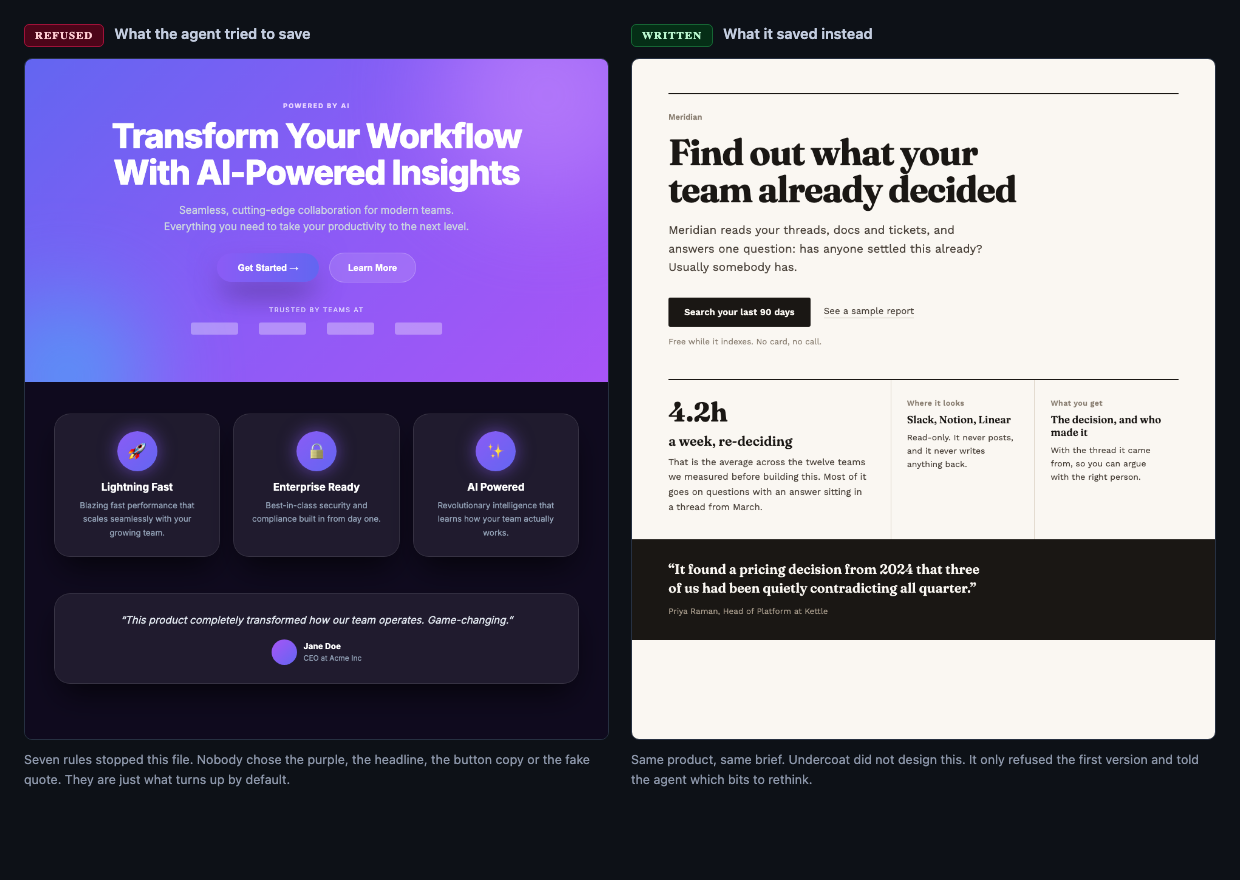
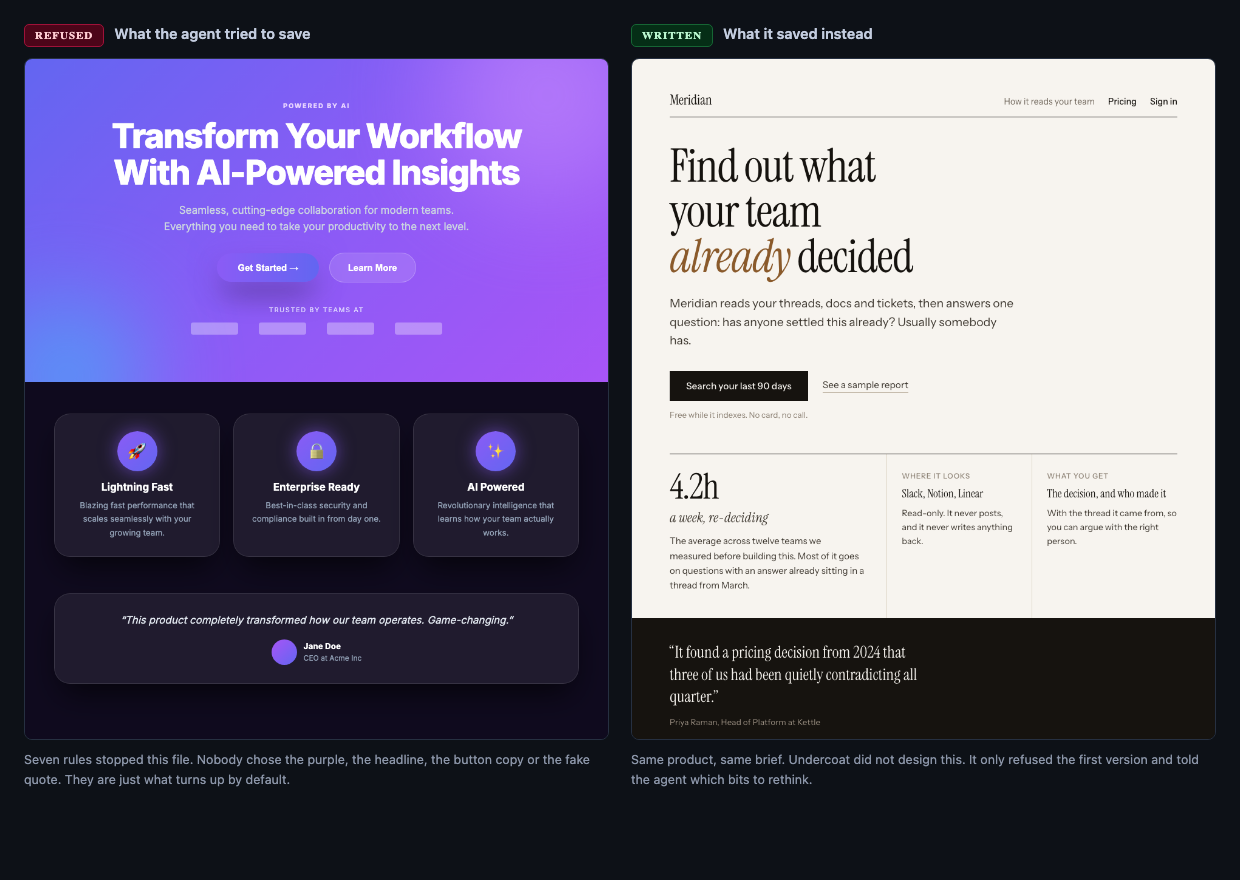
Anchor the callouts to real elements, retypeset the good page, plainer copy
The callout pins were hand-positioned and drifted off their targets. They now
outline the actual elements, so a box cannot point at the wrong thing.

The 'written instead' page was set in Fraunces and Work Sans, which was a safe
pick rather than a good one. Instrument Serif and Instrument Sans, with the
italic pulled out in a warm brown.

Replaced 'this one sits on the save' and a few other phrases that meant
nothing to anyone who had not already read the code.

Changed region(s): [[0.4903, 0.3375, 0.9806, 0.8591], [0.521, 0.092, 0.8274, 0.3068], [0.7968, 0.092, 0.95, 0.1227]]

diff --git a/README.md b/README.md
@@ -12,8 +12,8 @@ otherwise, because it's the average of every landing page it ever read.
 
 You can tell it not to. That works for about forty files, and then it forgets.
 
-Undercoat doesn't ask. It reads the file while the agent is saving it, and if that stuff is
-in there, the save fails.
+Undercoat doesn't ask. It reads each file as the agent goes to save it, and if that stuff is
+in there, the save just fails.
 
 ![Undercoat refusing a write, the agent retrying, and the second attempt going through](assets/refusal.gif)
 
@@ -207,15 +207,15 @@ says something and gets out of your way.
 
 ### Why some refuse and some don't
 
-A rule only gets to refuse a file if two things hold. What it looks for has to mean one
-thing and nothing else, and almost nobody should ever want it deliberately.
+A rule only gets to refuse a file if two things are true. What it looks for has to mean one
+thing and nothing else, and almost nobody should ever want it on purpose.
 
-A hot-linked Unsplash photo in shipped code fails both tests badly enough to refuse. Three
-cards in a row is a genuine tell, but plenty of good pages have three cards in a row, so
-that one just says something and moves on.
+Take a hot-linked Unsplash photo in shipped code. It means one thing, and almost nobody
+wants it, so that one refuses. Three cards in a row is a genuine tell, but plenty of good
+pages have three cards in a row, so that one just says something and moves on.
 
-Notice what this isn't measuring. It doesn't matter how many people agree a pattern is
-ugly. The only question is whether stopping you would ever be the wrong call.
+How many people agree a pattern is ugly doesn't come into it. The only question is whether
+stopping you would ever be the wrong call.
 
 ## When a rule gets it wrong
 
@@ -243,8 +243,8 @@ It reads text, and that's all it reads. So:
 - **It can't tell writing about a pattern from using one.** A style guide that mentions
   `from-purple-600` gets pulled up for it, so turn Undercoat off in those repos.
 
-If you want something that looks at the rendered page and tells you it's boring, you want a
-design reviewer. Undercoat is meant to sit alongside one.
+If you want something that looks at the finished page and tells you it's boring, you want a
+design reviewer. Undercoat is built to work alongside one, not replace it.
 
 ## Does it get in the way?
 
@@ -267,8 +267,9 @@ named by [impeccable](https://github.com/pbakaus/impeccable),
 [Anthropic's frontend-design skill](https://github.com/anthropics/skills/tree/main/skills/frontend-design),
 plus a handful of write-ups cataloguing AI design tells. There's a fuller note in `NOTICE`.
 
-What's different here is the timing. Everything else tells the agent beforehand or checks
-your work afterwards. This one sits on the save.
+What's different here is when it happens. Other tools tell the agent what to do before it
+starts, or check your code once it's finished. This one stops the file from being written
+in the first place.
 
 ## Try it
 
